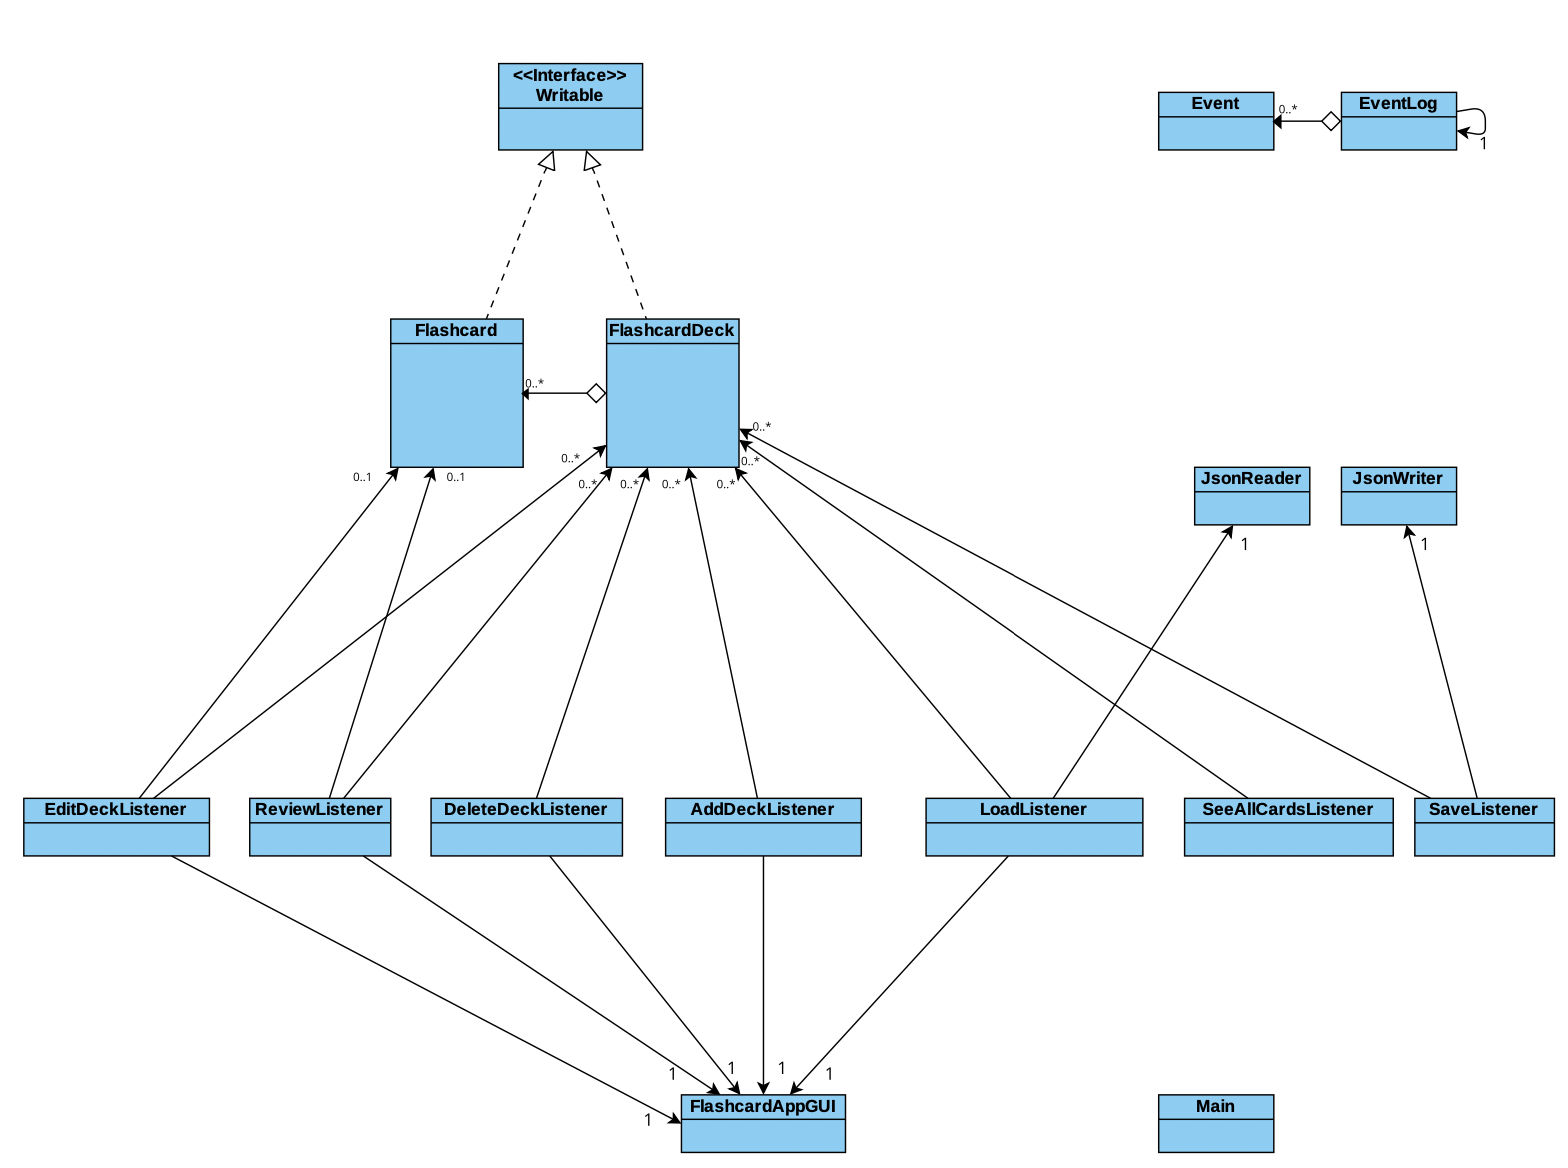
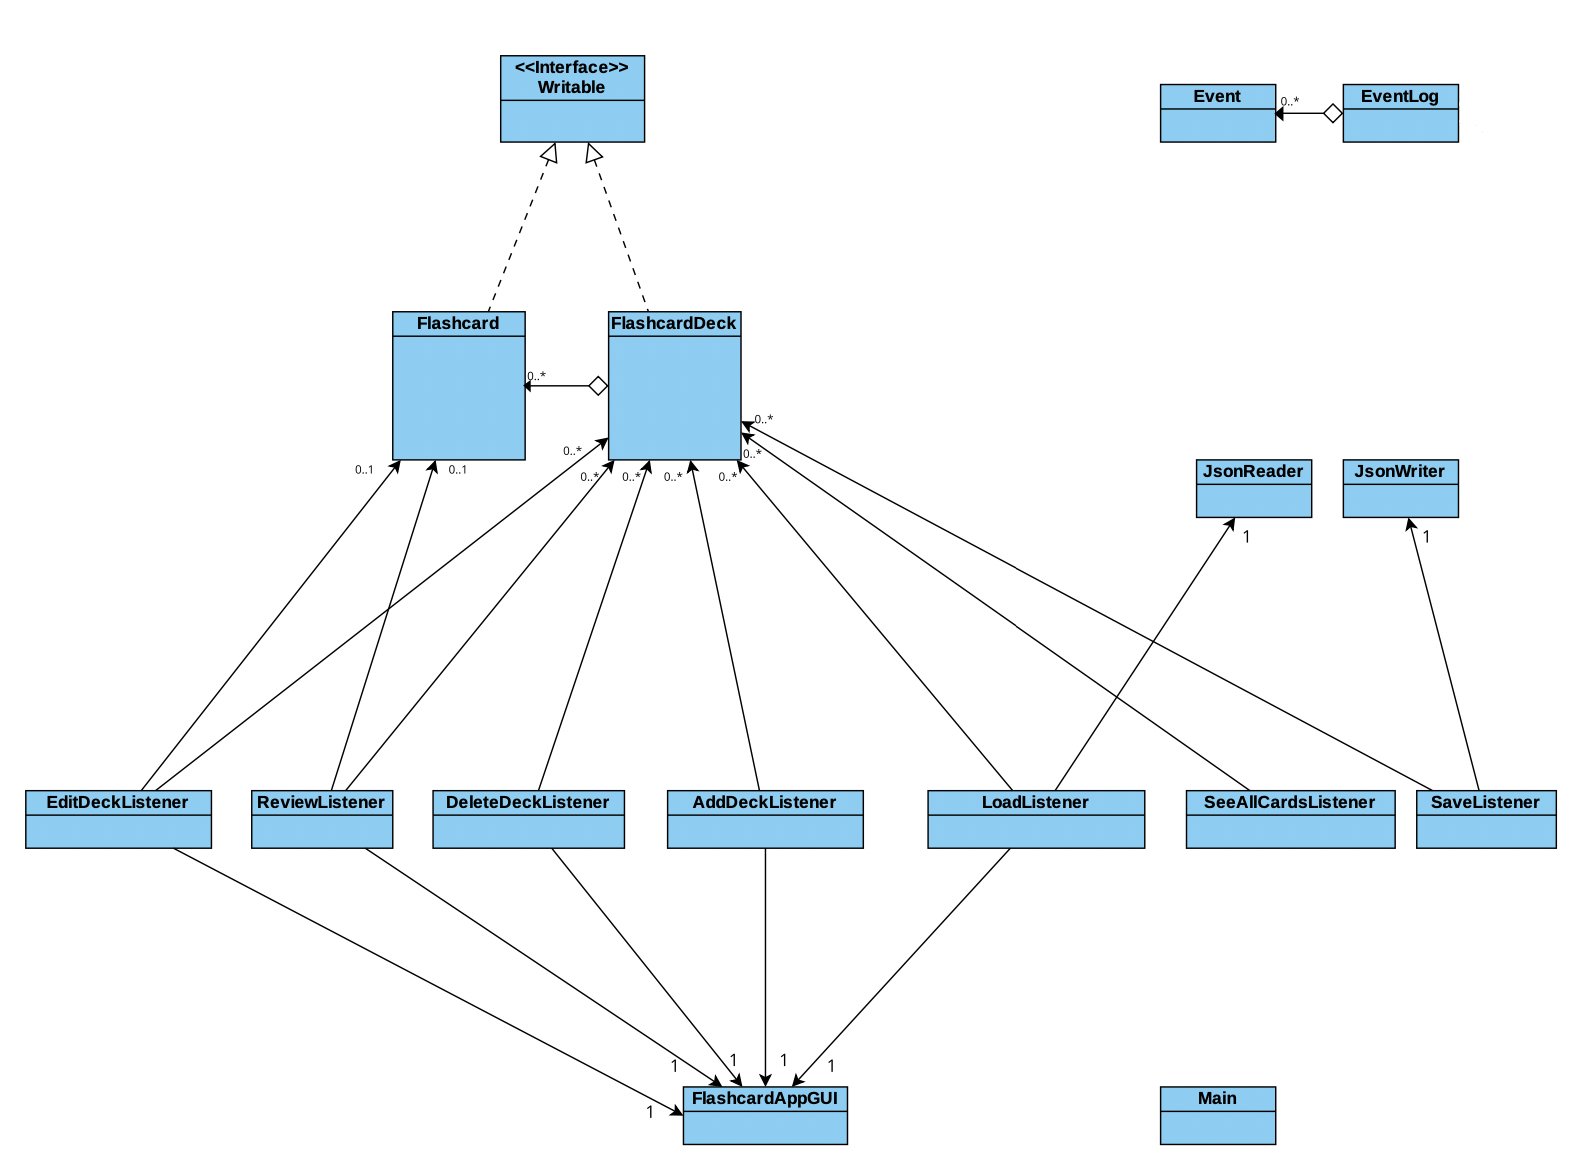
UML change and added new type of event to be logged.

diff --git a/src/main/model/FlashcardDeck.java b/src/main/model/FlashcardDeck.java
@@ -150,6 +150,7 @@ public class FlashcardDeck implements Writable {
     // EFFECTS: sets name of deck to given name
     public void setName(String name) {
         this.name = name;
+        EventLog.getInstance().logEvent(new Event("Deck name changed"));
     }
 
     // MODIFIES: this
